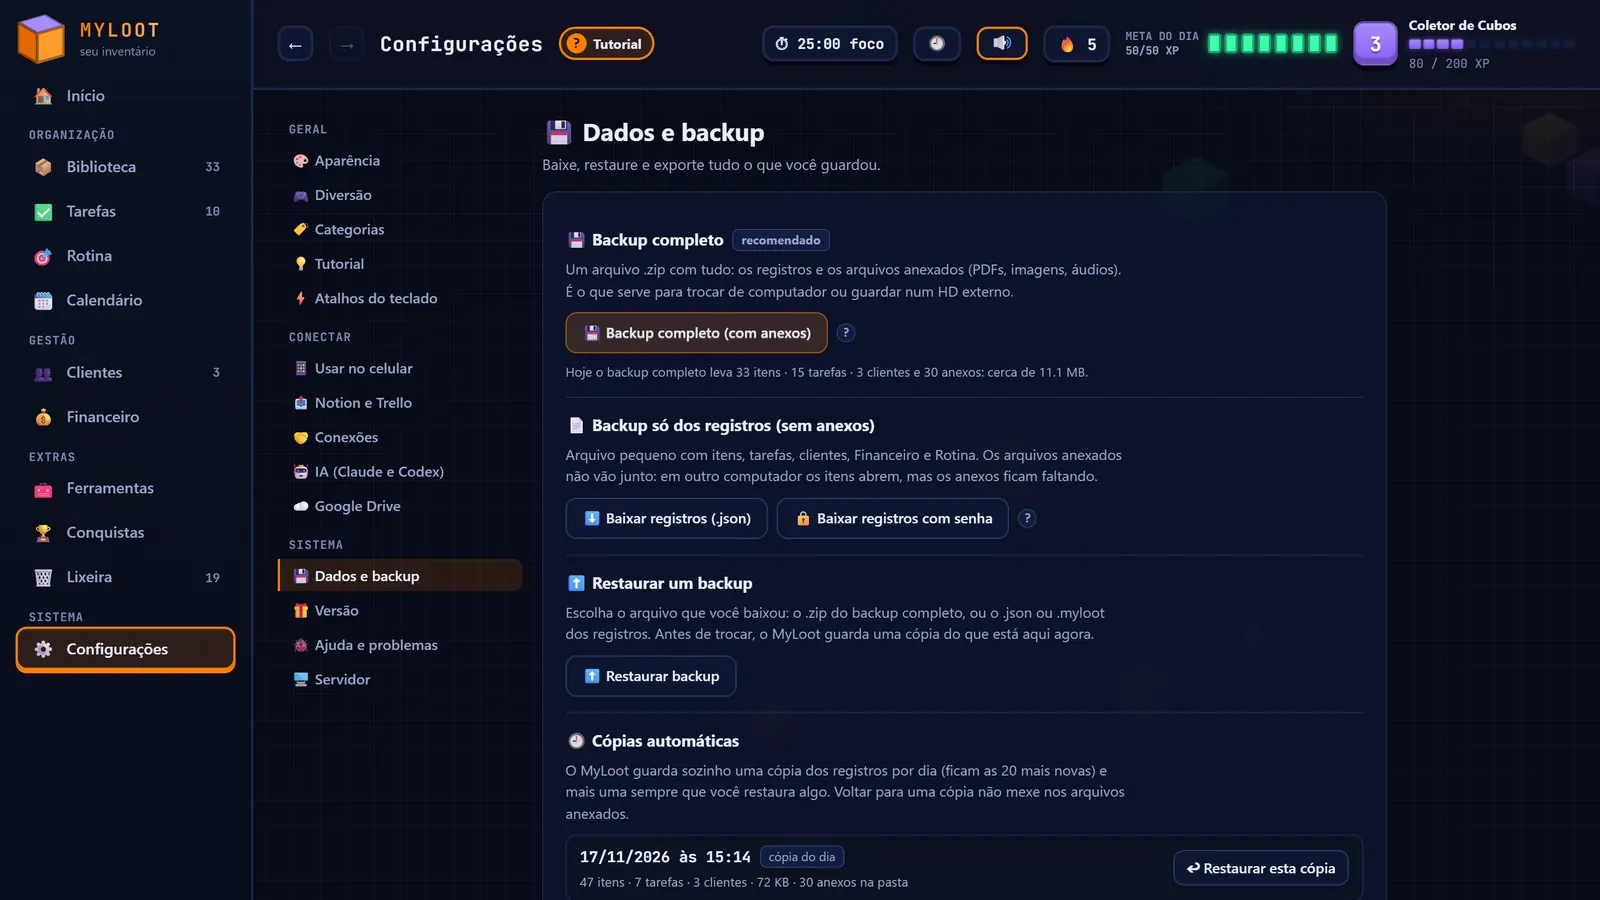
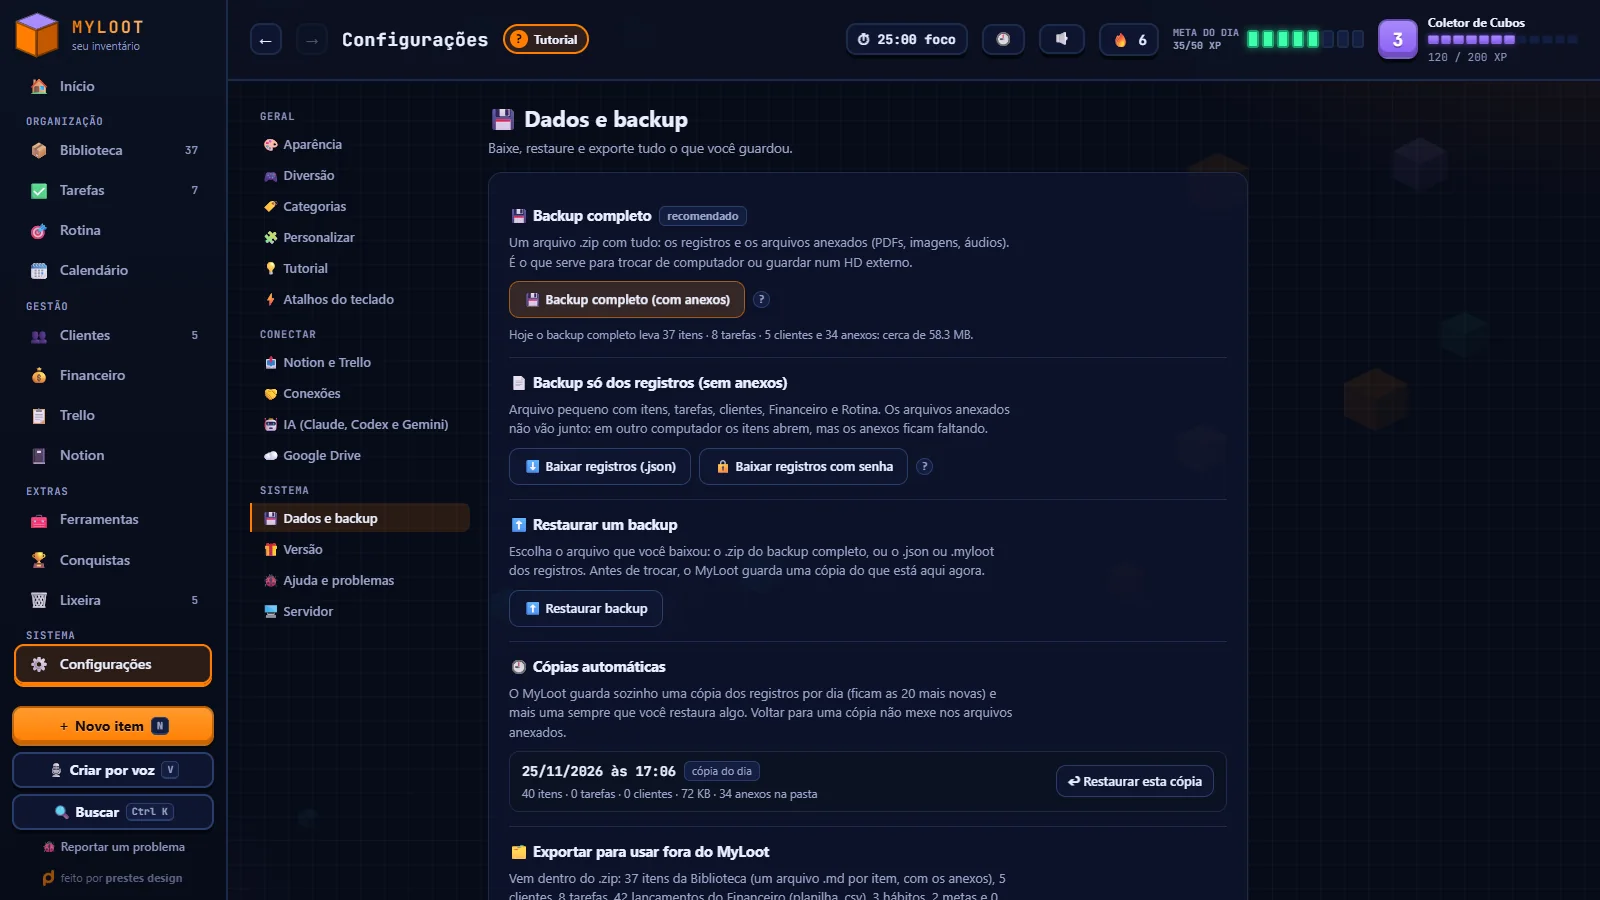
Site: prints das telas refeitos na 2.29
- 22 telas novas (1600x900) tiradas num servidor de teste com dados de
  exemplo: Início com "Para que serve cada tela", Trello e Notion no menu,
  ferramentas com o que é grátis, novidades da 2.29
- Versão na URL das imagens (?v=) para o CDN não servir os prints antigos

diff --git a/docs/index.html b/docs/index.html
@@ -36,7 +36,7 @@
   "applicationCategory":"ProductivityApplication","applicationSubCategory":"Organização pessoal","operatingSystem":"Windows, macOS, Linux",
   "inLanguage":"pt-BR","isAccessibleForFree":true,"license":"https://opensource.org/licenses/MIT",
   "downloadUrl":"https://github.com/edirsooo/myloot/archive/refs/heads/main.zip","installUrl":"https://myloot.prestesdesign.com.br/#baixar","codeRepository":"https://github.com/edirsooo/myloot",
-  "image":"https://myloot.prestesdesign.com.br/site/share.jpg","screenshot":["https://myloot.prestesdesign.com.br/site/telas/inicio.webp","https://myloot.prestesdesign.com.br/site/telas/biblioteca.webp","https://myloot.prestesdesign.com.br/site/telas/tarefas.webp","https://myloot.prestesdesign.com.br/site/telas/financeiro.webp"],
+  "image":"https://myloot.prestesdesign.com.br/site/share.jpg","screenshot":["https://myloot.prestesdesign.com.br/site/telas/inicio.webp?v=20261125c","https://myloot.prestesdesign.com.br/site/telas/biblioteca.webp?v=20261125c","https://myloot.prestesdesign.com.br/site/telas/tarefas.webp?v=20261125c","https://myloot.prestesdesign.com.br/site/telas/financeiro.webp?v=20261125c"],
   "featureList":["Biblioteca de prompts, links, notas e PDFs","Busca com Ctrl K","Tarefas, calendário, rotina e modo foco","Clientes e financeiro","IA com Claude Code ou Codex pela própria assinatura","Google Drive, Notion e Trello","XP, conquistas, mascotes e música","Desfazer, histórico, lixeira e backup completo"],
   "offers":{"@type":"Offer","price":"0","priceCurrency":"BRL"},
   "author":{"@type":"Organization","name":"Prestes Design","url":"https://prestesdesign.com.br"}},
@@ -45,7 +45,7 @@
 ]}
 </script>
 <link rel="preload" href="site/fonts/Poppins-Bold.woff2" as="font" type="font/woff2" crossorigin>
-<link rel="stylesheet" href="site/site.css?v=20261125b">
+<link rel="stylesheet" href="site/site.css?v=20261125c">
 </head>
 <body>
 <a class="pular" href="#guardar">Pular para o conteúdo</a>
@@ -119,7 +119,7 @@
         </div>
         <figure class="janela" data-piso data-fala="Boa vista daqui!|Gostei dessa tela!">
           <div class="janela-barra" aria-hidden="true"><i></i><i></i><i></i><span>MyLoot</span></div>
-          <img src="site/telas/inicio.webp" width="1600" height="900" alt="Tela Início do MyLoot com o bloco “O que você quer guardar?” e o mapa de conexões" loading="lazy" decoding="async">
+          <img src="site/telas/inicio.webp?v=20261125c" width="1600" height="900" alt="Tela Início do MyLoot com o bloco “O que você quer guardar?” e o mapa de conexões" loading="lazy" decoding="async">
         </figure>
       </div>
     </div>
@@ -142,7 +142,7 @@
         </div>
         <figure class="janela" data-piso data-fala="Anotando…|Tec tec tec…">
           <div class="janela-barra" aria-hidden="true"><i></i><i></i><i></i><span>MyLoot</span></div>
-          <img src="site/telas/tarefas.webp" width="1600" height="900" alt="Tela Tarefas com as colunas Hoje, Próximas e Concluídas" loading="lazy" decoding="async">
+          <img src="site/telas/tarefas.webp?v=20261125c" width="1600" height="900" alt="Tela Tarefas com as colunas Hoje, Próximas e Concluídas" loading="lazy" decoding="async">
         </figure>
       </div>
     </div>
@@ -167,7 +167,7 @@
         </div>
         <figure class="janela" data-piso data-fala="Hmm, interessante…|Deixa eu ver…">
           <div class="janela-barra" aria-hidden="true"><i></i><i></i><i></i><span>MyLoot</span></div>
-          <img src="site/telas/cliente.webp" width="1600" height="900" alt="Ficha da cliente Ana Souza com status, contato e anotações" loading="lazy" decoding="async">
+          <img src="site/telas/cliente.webp?v=20261125c" width="1600" height="900" alt="Ficha da cliente Ana Souza com status, contato e anotações" loading="lazy" decoding="async">
         </figure>
       </div>
     </div>
@@ -190,7 +190,7 @@
         </div>
         <figure class="janela" data-piso data-fala="Deixa a IA pensar…|Conexão boa!">
           <div class="janela-barra" aria-hidden="true"><i></i><i></i><i></i><span>MyLoot</span></div>
-          <img src="site/telas/ia.webp" width="1600" height="900" alt="Ficha de prompt com o painel da IA para melhorar, resumir e traduzir" loading="lazy" decoding="async">
+          <img src="site/telas/ia.webp?v=20261125c" width="1600" height="900" alt="Ficha de prompt com o painel da IA para melhorar, resumir e traduzir" loading="lazy" decoding="async">
         </figure>
       </div>
     </div>
@@ -218,7 +218,7 @@
         </div>
         <figure class="janela" data-piso data-fala="Que festa!|Uhuu!">
           <div class="janela-barra" aria-hidden="true"><i></i><i></i><i></i><span>MyLoot</span></div>
-          <img src="site/telas/conquistas.webp" width="1600" height="900" alt="Tela Conquistas com XP dos últimos 7 dias e as medalhas" loading="lazy" decoding="async">
+          <img src="site/telas/conquistas.webp?v=20261125c" width="1600" height="900" alt="Tela Conquistas com XP dos últimos 7 dias e as medalhas" loading="lazy" decoding="async">
         </figure>
       </div>
     </div>
@@ -242,7 +242,7 @@
         </div>
         <figure class="janela" data-piso data-fala="Tudo guardadinho.|Seguro aqui em cima!">
           <div class="janela-barra" aria-hidden="true"><i></i><i></i><i></i><span>MyLoot</span></div>
-          <img src="site/telas/desfazer.webp" width="1600" height="900" alt="Aviso de tarefa concluída com o botão Desfazer" loading="lazy" decoding="async">
+          <img src="site/telas/desfazer.webp?v=20261125c" width="1600" height="900" alt="Aviso de tarefa concluída com o botão Desfazer" loading="lazy" decoding="async">
         </figure>
       </div>
     </div>
@@ -293,8 +293,8 @@
   </div>
 </footer>
 
-<script src="site/voxel.js?v=20261125b" defer></script>
-<script src="site/mascote.js?v=20261125b" defer></script>
-<script src="site/site.js?v=20261125b" defer></script>
+<script src="site/voxel.js?v=20261125c" defer></script>
+<script src="site/mascote.js?v=20261125c" defer></script>
+<script src="site/site.js?v=20261125c" defer></script>
 </body>
 </html>

diff --git a/docs/site/site.js b/docs/site/site.js
@@ -2,6 +2,7 @@
 (function () {
   const q = (s, r) => (r || document).querySelector(s), qa = (s, r) => [...(r || document).querySelectorAll(s)];
   const calmo = matchMedia('(prefers-reduced-motion: reduce)').matches;
+  const TELAS_V = '20261125c'; // trocar quando os prints de site/telas mudarem (o CDN da Hostinger guarda imagem por dias)
   const ALT = {
     inicio: 'Tela Início do MyLoot com o bloco “O que você quer guardar?” e o mapa de conexões',
     biblioteca: 'Biblioteca com cartões de prompts, notas e links, com etiquetas e filtros',
@@ -11,7 +12,7 @@
     calendario: 'Calendário de novembro com compromissos e tarefas nos dias',
     rotina: 'Rotina com hábitos do dia, metas com barra de progresso e o mapa do mês',
     foco: 'Janela do Modo foco com o timer de 25 minutos',
-    cliente: 'Ficha da cliente Ana Souza com status, contato e anotações',
+    cliente: 'Ficha do cliente Loja Verde Vivo com status, contato e anotações',
     financeiro: 'Financeiro de novembro com saldo do mês, lançamentos e gráfico',
     ia: 'Ficha de prompt com o painel da IA para melhorar, resumir e traduzir',
     ferramentas_rec: 'Ferramentas recomendadas em cartões, com Abrir e Salvar',
@@ -24,7 +25,7 @@
     historico: 'Histórico de ações com Desfazer em cada linha',
     lixeira: 'Lixeira com itens e tarefas apagados e o botão Restaurar',
     backup: 'Dados e backup: backup completo, cópias automáticas e restaurar',
-    novidades: 'Janela de novidades da versão 2.15',
+    novidades: 'Janela de novidades de uma versão nova do MyLoot',
   };
 
   // abas das seções: trocam a imagem da janela
@@ -33,7 +34,7 @@
     const pre = new Set();
     const ativa = (b, foco) => {
       abas.forEach((x) => { const on = x === b; x.setAttribute('aria-selected', on); x.tabIndex = on ? 0 : -1; });
-      const t = b.dataset.tela, src = 'site/telas/' + t + '.webp';
+      const t = b.dataset.tela, src = 'site/telas/' + t + '.webp?v=' + TELAS_V;
       if (img.getAttribute('src') !== src) {
         img.classList.remove('troca'); void img.offsetWidth;
         img.src = src; img.alt = ALT[t] || ''; if (!calmo) img.classList.add('troca');
@@ -43,7 +44,7 @@
     abas.forEach((b, i) => {
       b.id = b.id || sec.id + '-aba-' + i; b.setAttribute('aria-controls', sec.id + '-tela'); b.tabIndex = i ? -1 : 0;
       b.addEventListener('click', () => ativa(b));
-      b.addEventListener('pointerenter', () => { if (!pre.has(b)) { pre.add(b); new Image().src = 'site/telas/' + b.dataset.tela + '.webp'; } });
+      b.addEventListener('pointerenter', () => { if (!pre.has(b)) { pre.add(b); new Image().src = 'site/telas/' + b.dataset.tela + '.webp?v=' + TELAS_V; } });
       b.addEventListener('keydown', (e) => {
         const d = { ArrowDown: 1, ArrowRight: 1, ArrowUp: -1, ArrowLeft: -1 }[e.key]; if (!d) return;
         e.preventDefault(); ativa(abas[(i + d + abas.length) % abas.length], true);
